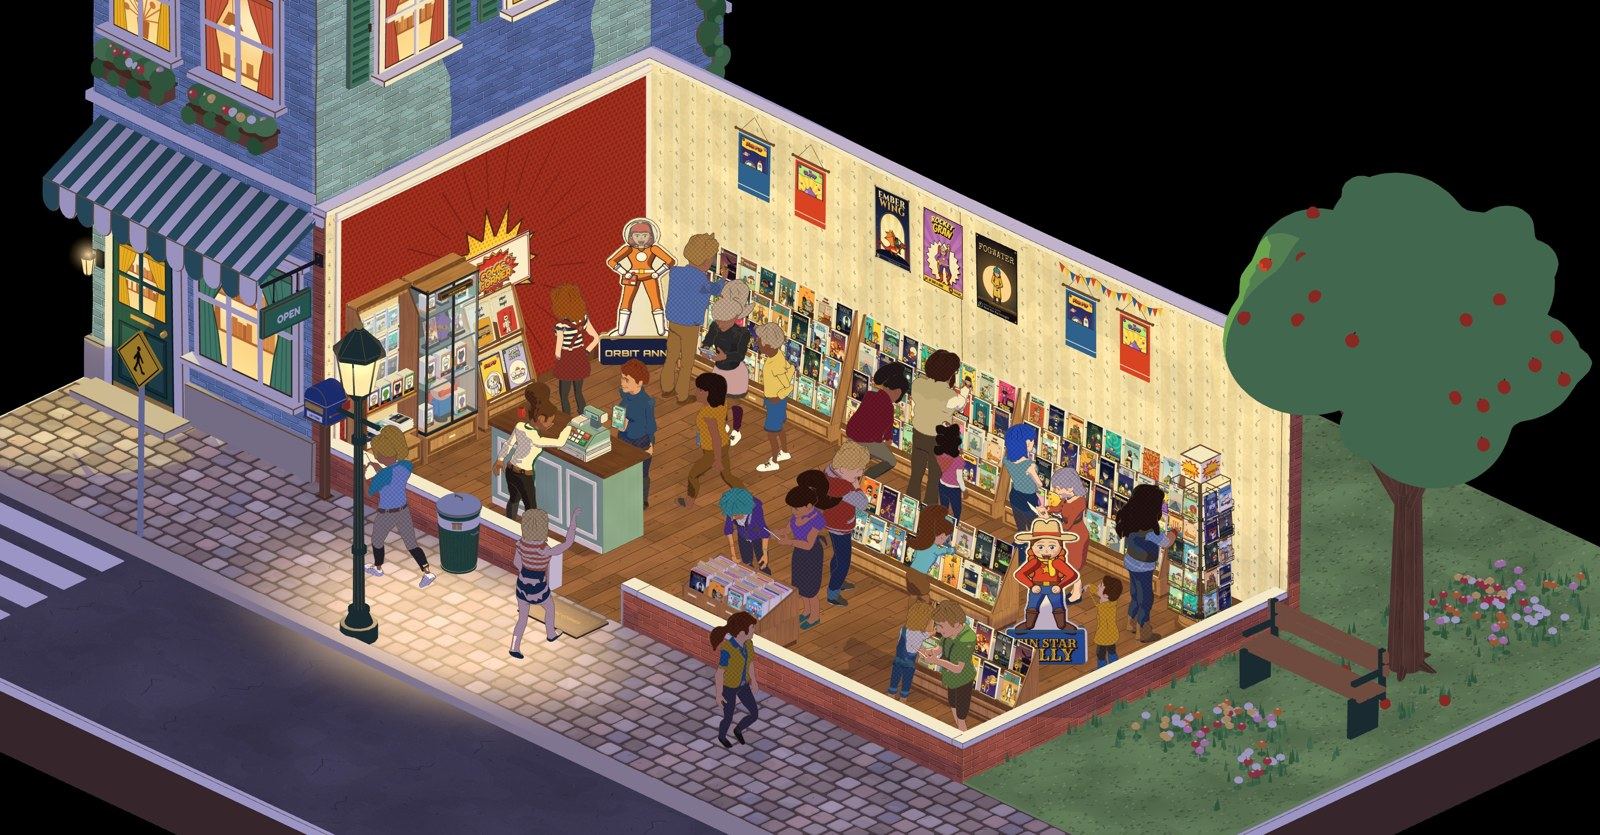
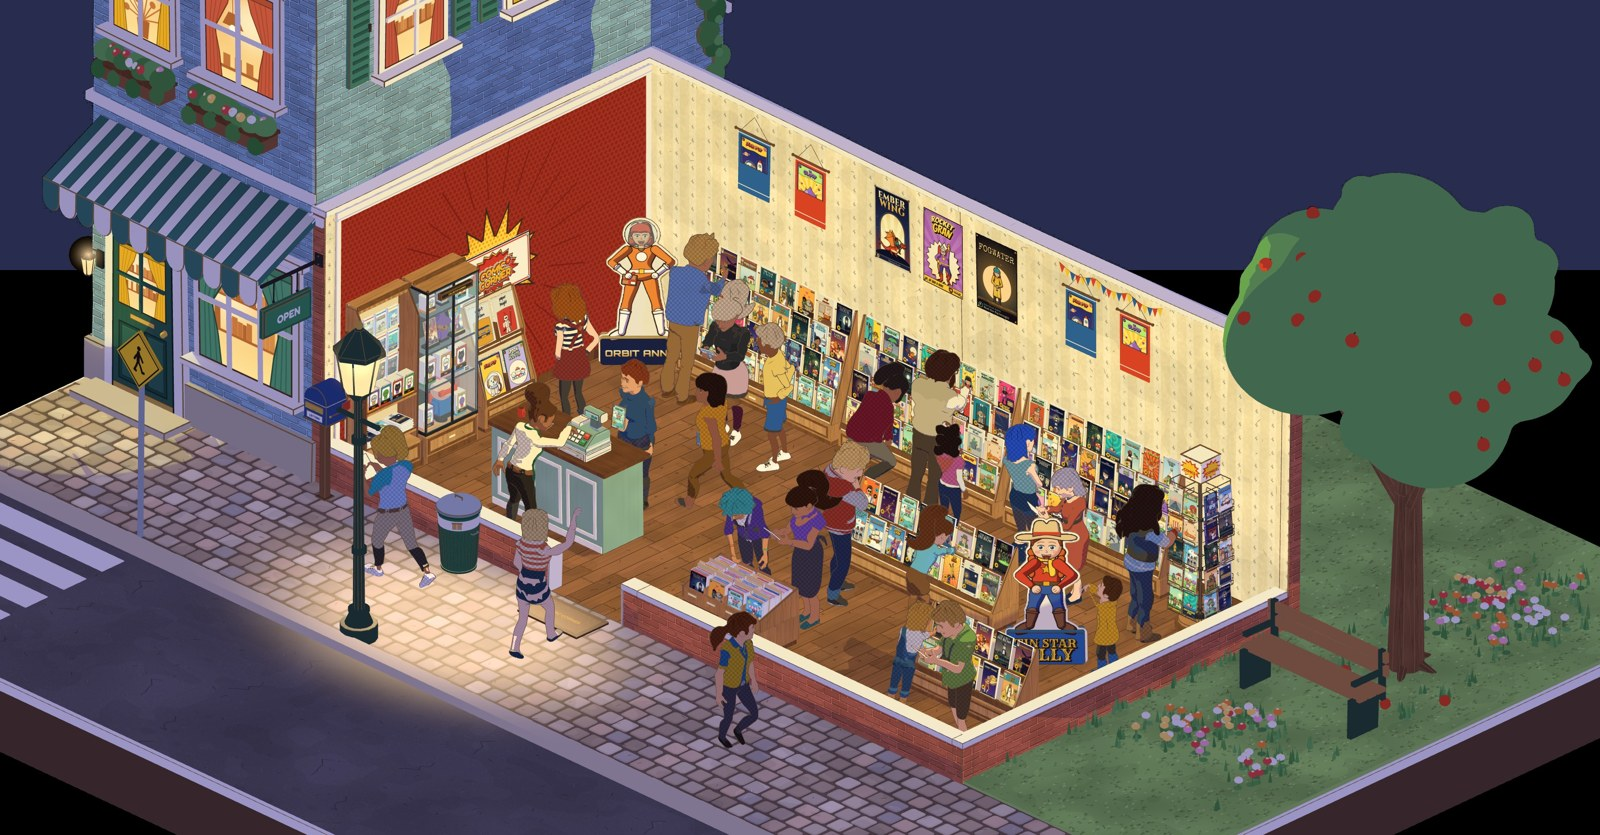
Blog issue 01: Bea's revised text and fixed cover
Claude-Session: https://claude.ai/code/session_01KPg4i3hkTPWqC15Brs6cUW

Changed region(s): [[0.4375, 0.0, 1.0, 0.3425], [0.0, 0.0, 0.0625, 0.3425]]

diff --git a/blog/issue-01/index.html b/blog/issue-01/index.html
@@ -31,8 +31,6 @@
 <p>I'm a bit of a perfectionist, so getting every little detail right is really important to me. The most challenging part has been making the gameplay feel intuitive and easy.</p>
 <p>A good example is the shelves. Instead of buying more shelves, you can simply stretch out the one you have to make more room for your displays. They stretch up and sideways. It would have been much easier to just have fixed-size shelves (believe me, I thought about it!), but this way gives you so much more flexibility.</p>
 <figure><img src="4-stretch-shelf.jpg" alt="A shelf in build mode with yellow handles for stretching it longer and taller." loading="lazy"><figcaption><i>Grab the yellow handles and stretch. The comics fill the new space.</i></figcaption></figure>
-<h2>A quick word on the art</h2>
-<p>I have one standing rule for the studio: no AI art. The shop, the fixtures and every comic cover are built by code, in my own art style. The customers start from Synty character models I own, reskinned by code to match the rest of the game. They still need plenty of polishing, especially the hair, and I'll keep chipping away at it.</p>
 <h2>Where it's heading</h2>
 <p>Cosy games are meant to be low-stress, with no failing. In Comic Corner, you'll watch your tiny store grow with new comics, merch, fixtures and displays. You'll be able to make it the store of your dreams, right down to the floors, the walls, the signage and the decorations.</p>
 <p>Every store starts the same, but as your business grows, no two stores will ever look the same!</p>

diff --git a/blog/issue-01/post.md b/blog/issue-01/post.md
@@ -52,10 +52,6 @@ A good example is the shelves. Instead of buying more shelves, you can simply st
 ![A shelf in build mode with yellow handles for stretching it longer and taller.](4-stretch-shelf.jpg)
 *Grab the yellow handles and stretch. The comics fill the new space.*
 
-## A quick word on the art
-
-I have one standing rule for the studio: no AI art. The shop, the fixtures and every comic cover are built by code, in my own art style. The customers start from Synty character models I own, reskinned by code to match the rest of the game. They still need plenty of polishing, especially the hair, and I'll keep chipping away at it.
-
 ## Where it's heading
 
 Cosy games are meant to be low-stress, with no failing. In Comic Corner, you'll watch your tiny store grow with new comics, merch, fixtures and displays. You'll be able to make it the store of your dreams, right down to the floors, the walls, the signage and the decorations.
